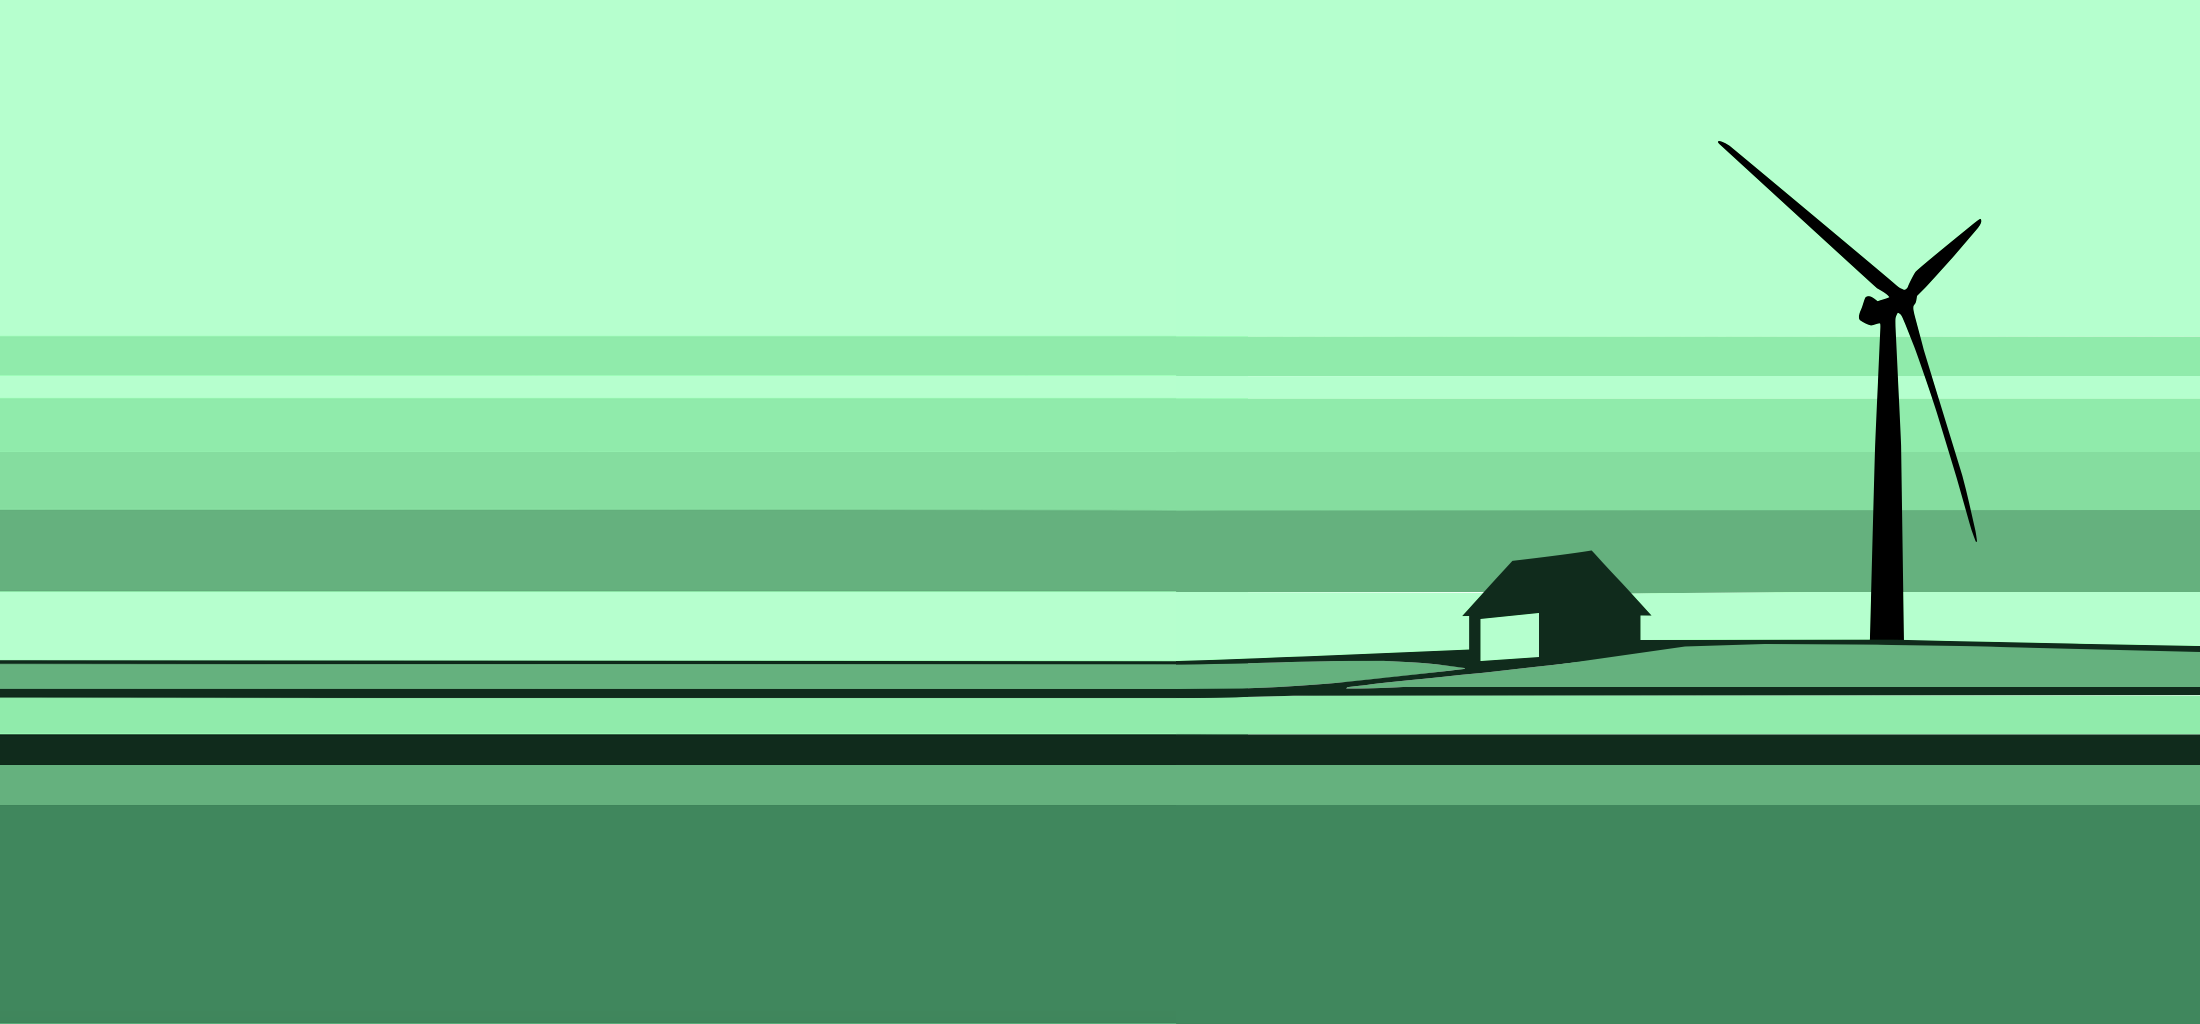
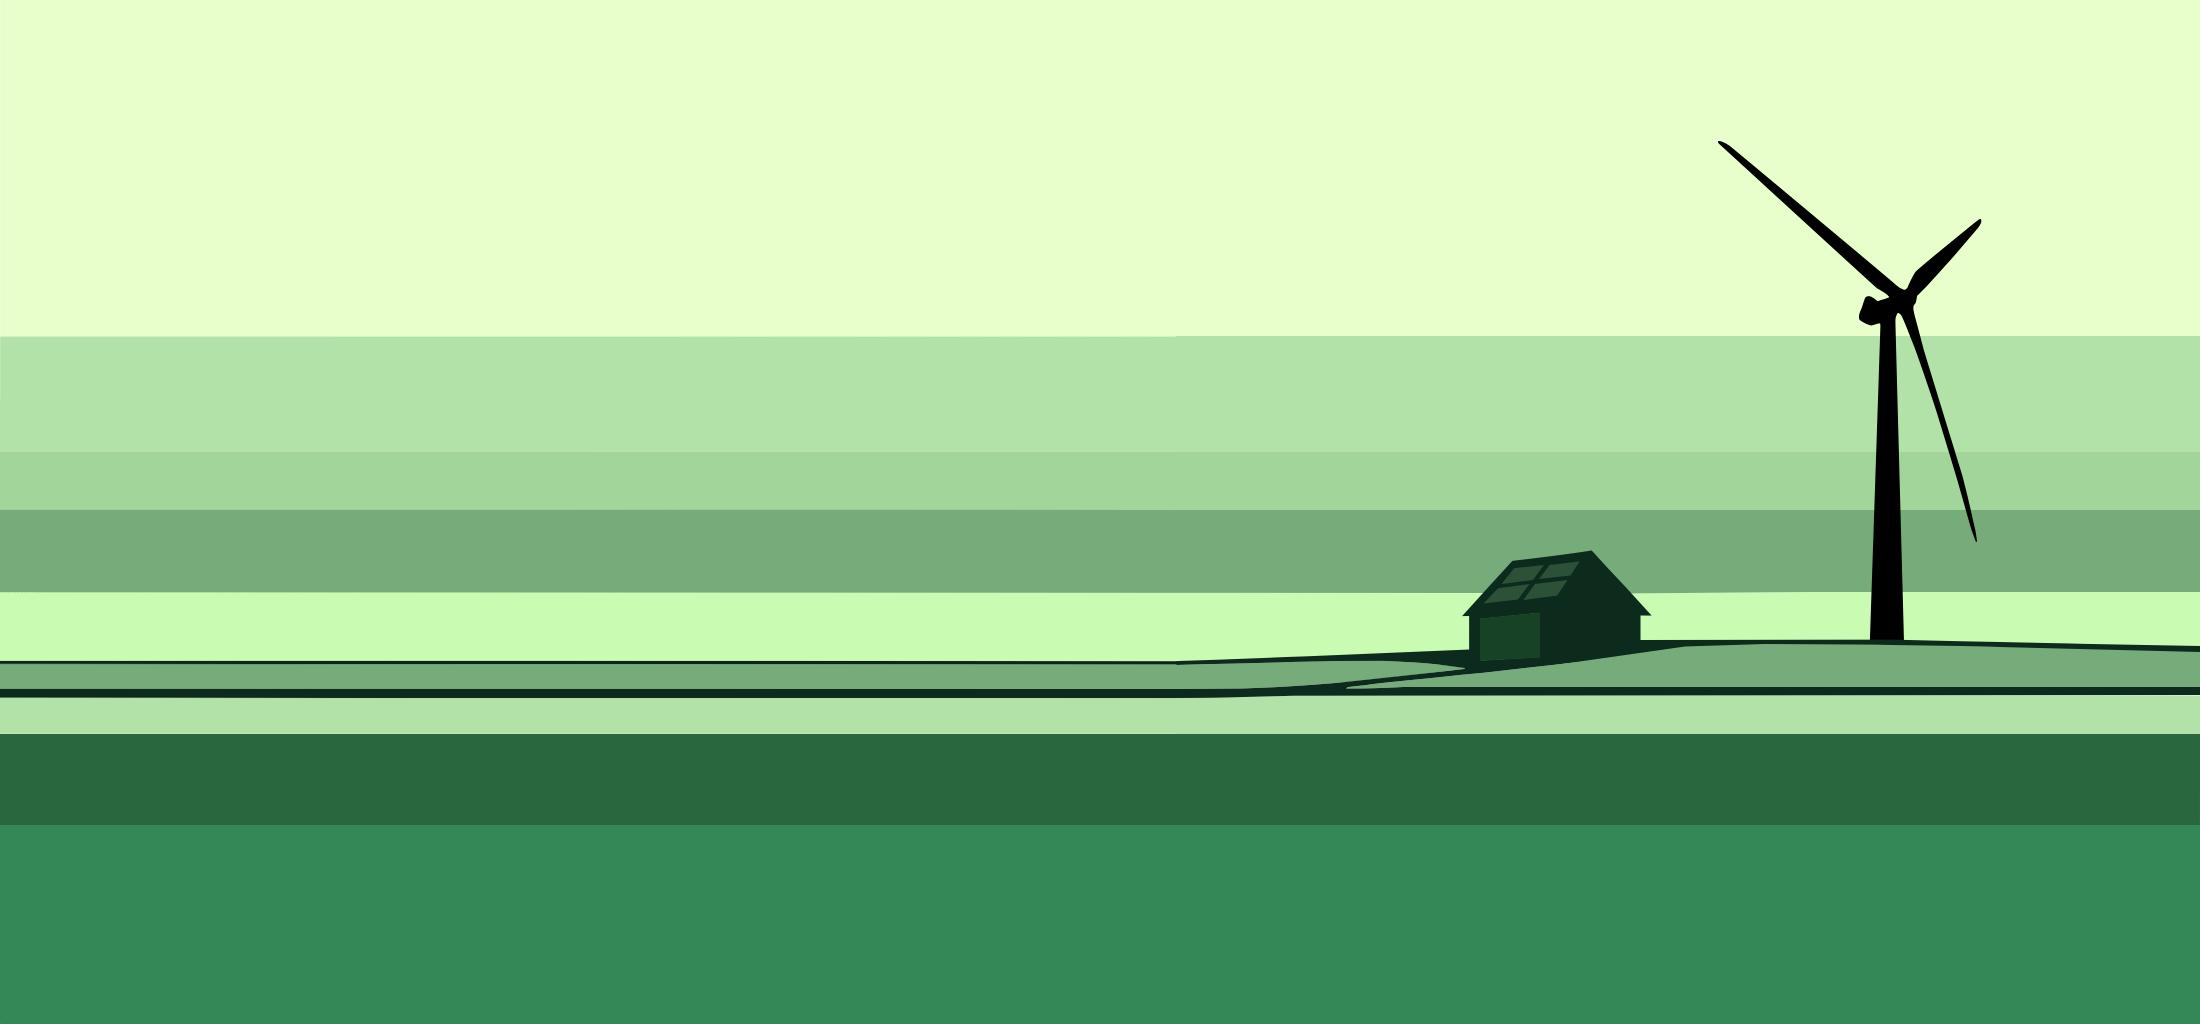
Graphic Update

diff --git a/index.html b/index.html
@@ -10,7 +10,7 @@
     body {
       margin: 0;
       padding: 0;
-      background-color: #B5FFCE;
+      background-color: #E8FFCB;
       background-image: url('imgs/comingsoon.png');
       background-position: bottom right;
       background-repeat: no-repeat;
@@ -19,7 +19,7 @@
     }
     @media (max-width: 768px) {
       body {
-        background-position-x: 75%;  /* Shifted to the right by 25% */
+        background-position-x: 85%;  /* Shifted to the right by 25% */
       }
     }
     .header {
